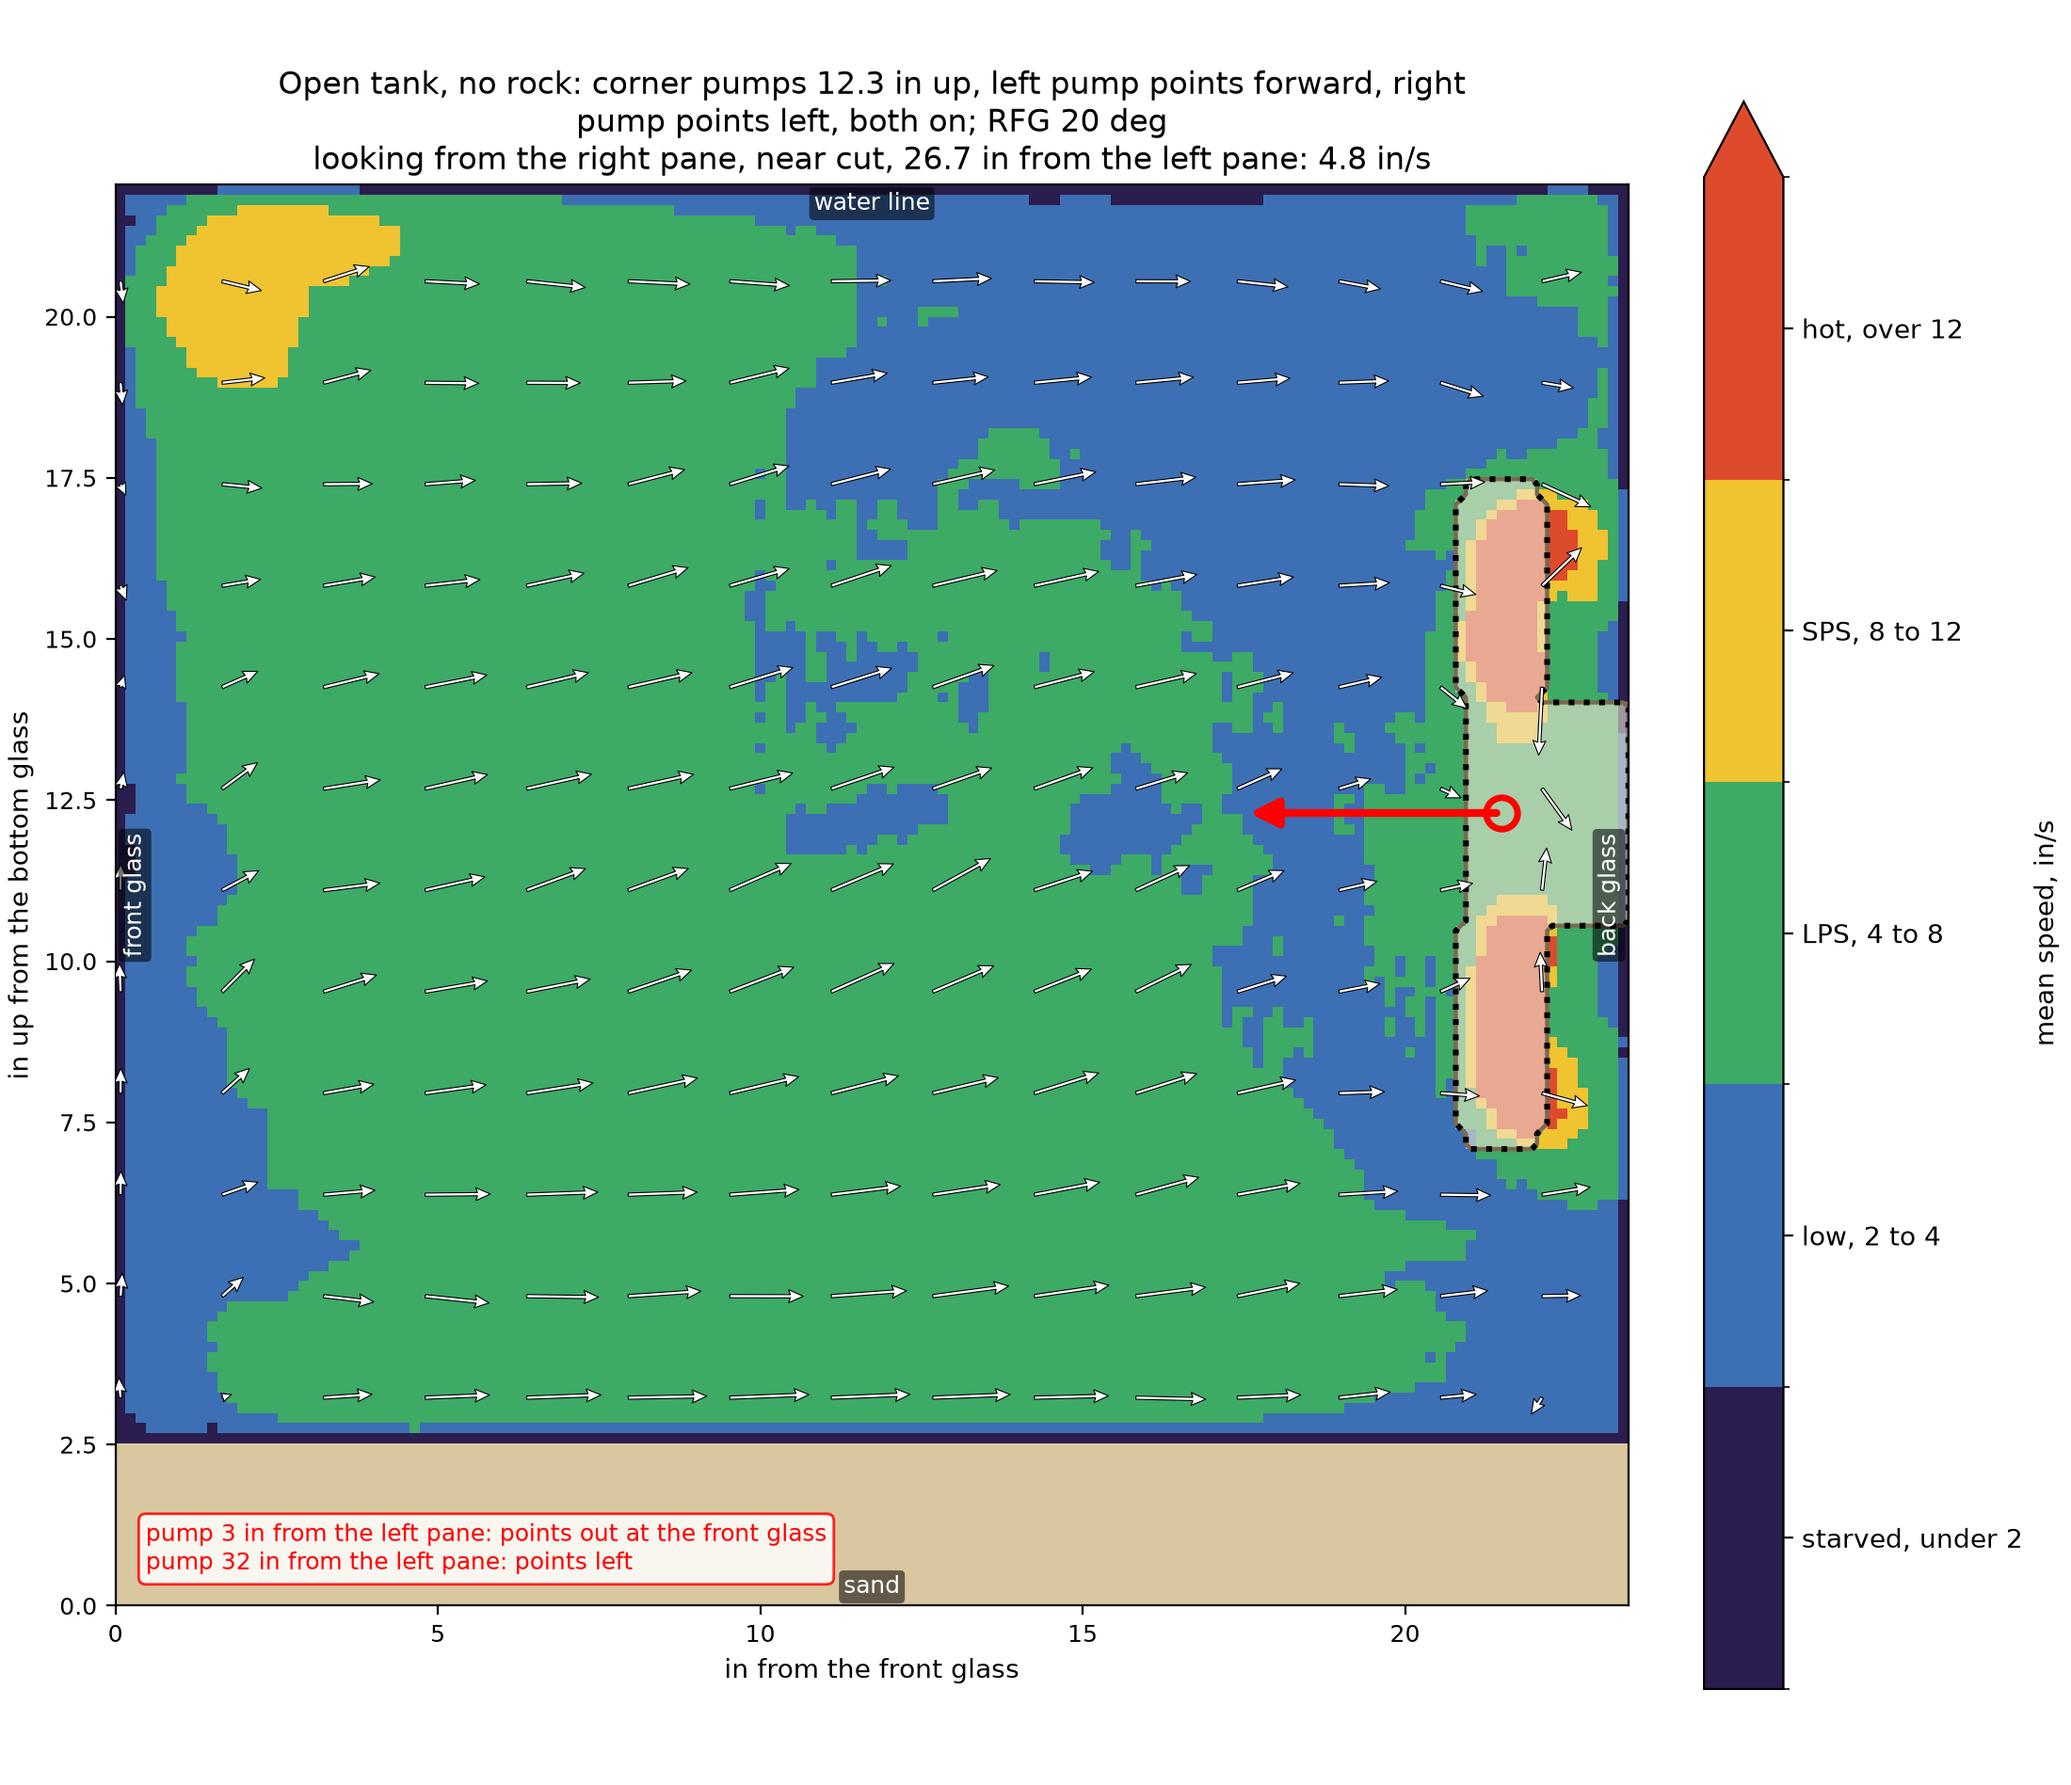
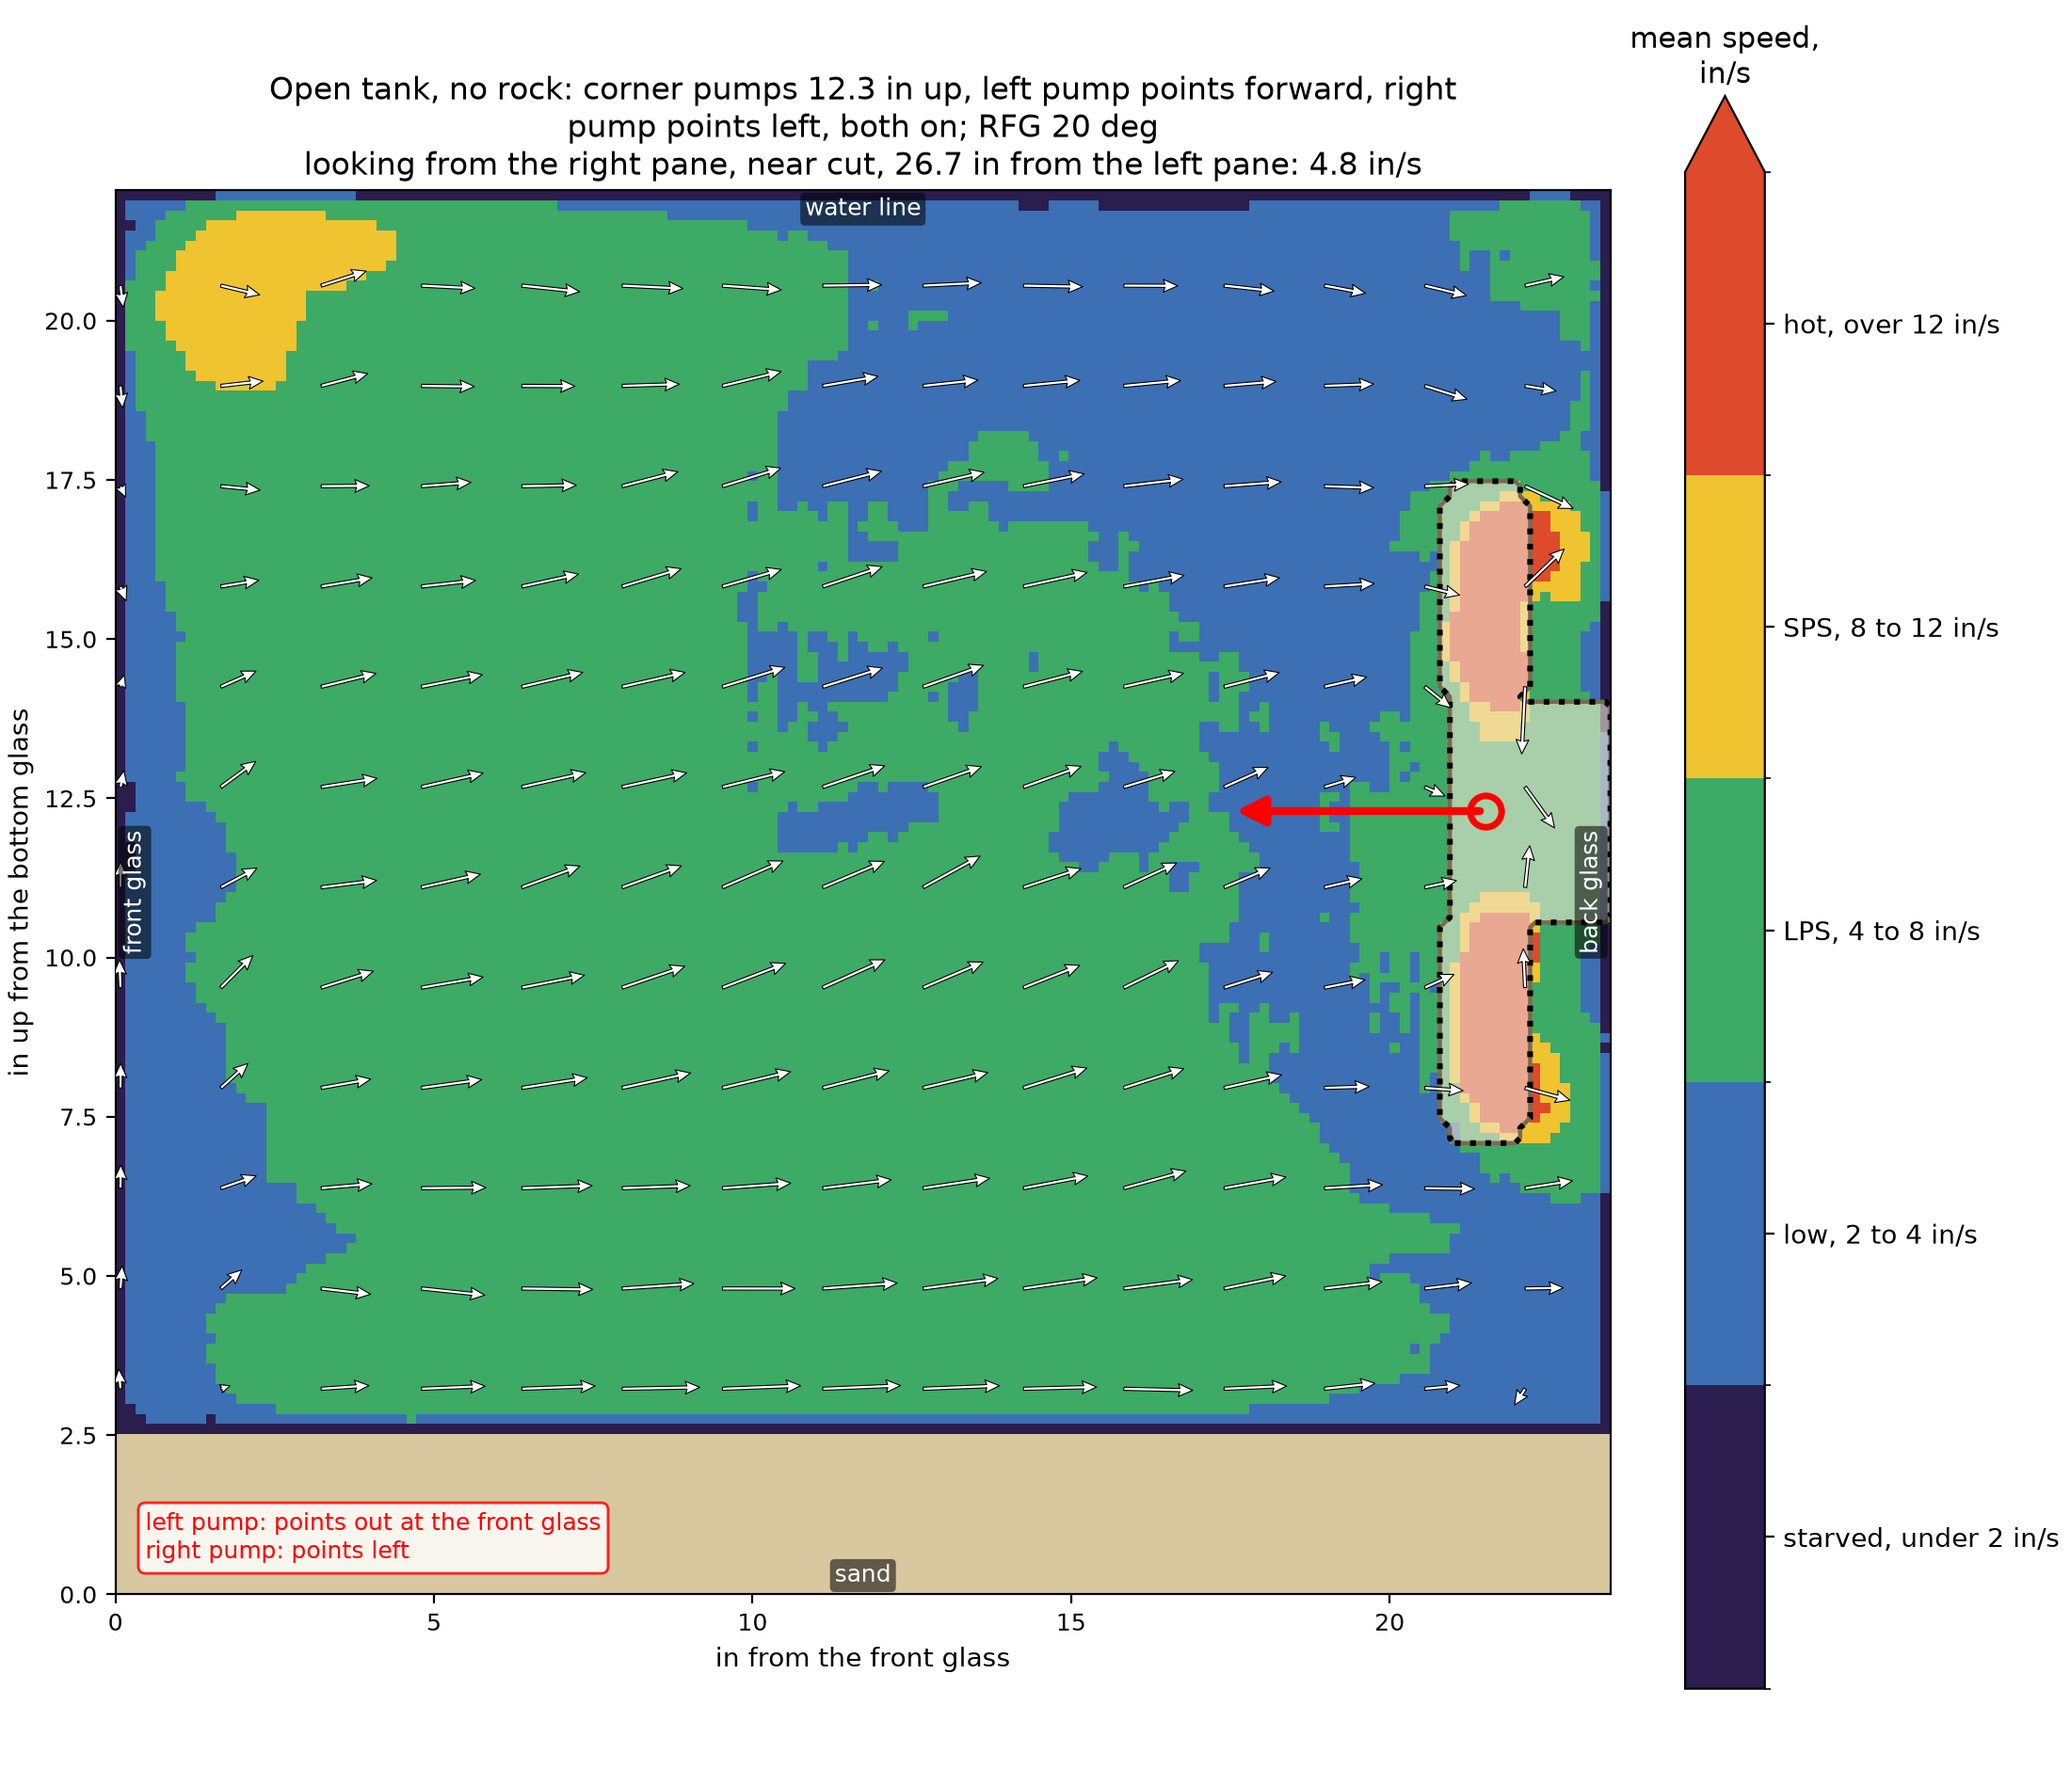
views, videos: legends name the pumps by side, color bar titled in/s, videos stamped with their real speed
What:
- Pump legend: "left pump" and "right pump" instead of "pump 3/32 in from the left pane".
- Color bar: "mean speed, in/s" (or "speed now, in/s" on video frames) across the top; in/s on every band label.
- flow_anim.py: each frame stamped "played at Nx speed", worked out from the snapshot spacing and --fps;
  --encode-only reuses kept frames for a second size.
- The 18 stills redrawn; README: the videos play at 2x, not half speed.

Why:
- "pump 3" and "pump 32" read as pump numbers; the units sat sideways and easy to miss.
- 0.2 s snapshots at 10 fps play at 2x; "half speed" was wrong everywhere. Computing it keeps the label true.

diff --git a/src/flow_anim.py b/src/flow_anim.py
@@ -1,11 +1,13 @@
 """Animations of one run: the nine views (cfd_tank.draw_nine) at every saved snapshot, joined into one MP4 per view.
 
-    python src/flow_anim.py CASE OUT_DIR --title "words" [--fps 10] [--scale 0.5] [--workers 6] [--keep]
+    python src/flow_anim.py CASE OUT_DIR --title "words" [--fps 10] [--scale 0.5] [--workers 6] [--keep] [--encode-only]
 
 The run must have saved snapshots (cfd_tank.py run --dump 0.2,0.4,... --report 0.2; 100 of them for 20 s). Frames are
 drawn into FluidX3D/bin/reef_out/CASE/frames/<view>/, six snapshots at a time; the videos go to OUT_DIR/<view>.mp4,
---scale 0.5 at half width (a few MB each instead of 15-25). Afterwards the frames and every snapshot but the last (the
-warm start) are deleted unless --keep.
+--scale 0.5 at half width (8-13 MB each instead of 14-25). Each frame is stamped with its tank time and the playback
+speed, worked out from the snapshot spacing and --fps (0.2 s snapshots at 10 fps play at 2x). --keep leaves the frames
+and snapshots; --encode-only reuses kept frames (a second size). Otherwise the frames and every snapshot but the last
+(the warm start) are deleted.
 """
 import argparse
 import shutil
@@ -28,9 +30,10 @@ def snapshots(case):
 
 
 def frame(job):
-    case, title, i, t, tag = job
+    case, title, i, t, tag, speed = job
     frames = cfd.OUT / case / "frames"
-    cfd.draw_nine(case, tag, lambda name: frames / name / f"{i:03d}.png", title, 6.0, stamp=f"; at {t:.1f} s")
+    cfd.draw_nine(case, tag, lambda name: frames / name / f"{i:03d}.png", title, 6.0,
+                  stamp=f"; at {t:.1f} s, played at {speed:g}x speed")
     return i
 
 
@@ -39,20 +42,24 @@ def main():
     p.add_argument("case")
     p.add_argument("out")
     p.add_argument("--title", required=True)
-    p.add_argument("--fps", type=int, default=10)   # 0.2 s snapshots at 10 fps: half speed
+    p.add_argument("--fps", type=int, default=10)   # 0.2 s snapshots at 10 fps: 2x speed
     p.add_argument("--scale", type=float, default=1.0)   # frame width as a share of the drawn 2200 px
     p.add_argument("--workers", type=int, default=6)
     p.add_argument("--keep", action="store_true")
+    p.add_argument("--encode-only", action="store_true")
     a = p.parse_args()
     snaps = snapshots(a.case)
     frames = cfd.OUT / a.case / "frames"
-    for v in VIEWS:
-        (frames / v).mkdir(parents=True, exist_ok=True)
-    jobs = [(a.case, a.title, i, t, tag) for i, (t, tag) in enumerate(snaps)]
-    with Pool(a.workers) as pool:
-        for n, _ in enumerate(pool.imap_unordered(frame, jobs), 1):
-            if n % 10 == 0 or n == len(jobs):
-                print(f"frames: {n} of {len(jobs)} snapshots", flush=True)
+    if not a.encode_only:
+        times = [t for t, _ in snaps]
+        speed = round(float(np.median(np.diff(times))) * a.fps, 2)   # tank seconds per second of video
+        for v in VIEWS:
+            (frames / v).mkdir(parents=True, exist_ok=True)
+        jobs = [(a.case, a.title, i, t, tag, speed) for i, (t, tag) in enumerate(snaps)]
+        with Pool(a.workers) as pool:
+            for n, _ in enumerate(pool.imap_unordered(frame, jobs), 1):
+                if n % 10 == 0 or n == len(jobs):
+                    print(f"frames: {n} of {len(jobs)} snapshots", flush=True)
 
     import imageio.v2 as imageio
     from PIL import Image

diff --git a/src/cfd_tank.py b/src/cfd_tank.py
@@ -201,8 +201,9 @@ EDGES = {           # axis labels, then the walls at the bottom, top, left and r
 }
 
 
-CORAL_BANDS = [(2, "starved, under 2", "#2b1d4e"), (4, "low, 2 to 4", "#3d6fb4"), (8, "LPS, 4 to 8", "#3daa66"),
-               (12, "SPS, 8 to 12", "#f0c330"), (16, "hot, over 12", "#de4a2c")]   # in/s at the coral; reef-keeping rules of thumb
+CORAL_BANDS = [(2, "starved, under 2 in/s", "#2b1d4e"), (4, "low, 2 to 4 in/s", "#3d6fb4"),
+               (8, "LPS, 4 to 8 in/s", "#3daa66"), (12, "SPS, 8 to 12 in/s", "#f0c330"),
+               (16, "hot, over 12 in/s", "#de4a2c")]   # in/s at the coral; reef-keeping rules of thumb
 
 
 def band_colors():
@@ -212,9 +213,11 @@ def band_colors():
     return cmap, BoundaryNorm([0] + [b for b, _, _ in CORAL_BANDS], cmap.N)
 
 
-def band_colorbar(fig, m, ax):
+def band_colorbar(fig, m, ax, title="mean speed,\nin/s"):
+    """The coral bands, titled across the top so the units read first."""
     edges = [0] + [b for b, _, _ in CORAL_BANDS]
-    cb = fig.colorbar(m, ax=ax, shrink=0.9, extend="max", label="mean speed, in/s")
+    cb = fig.colorbar(m, ax=ax, shrink=0.9, extend="max")
+    cb.ax.set_title(title, fontsize=11, pad=34)
     cb.set_ticks([(a + b) / 2 for a, b in zip(edges, edges[1:])])
     cb.set_ticklabels([w for _, w, _ in CORAL_BANDS])
     return cb
@@ -319,7 +322,8 @@ def pump_marks(ax, kind, meta):
         d = {"x": 0.0, "y": -math.sin(aim), "z": 0.0}
         d[push[1]] += s * math.cos(aim)
         way = "out at the front glass" if aim_deg >= 45 else {"-x": "left", "+x": "right", "-z": "down", "+z": "up"}[push]
-        words.append(f"pump {x:.0f} in from the left pane: " + (f"points {way}" if running else "off"))
+        side = "left" if x < INSIDE_L_IN / 2 else "right"
+        words.append(f"{side} pump: " + (f"points {way}" if running else "off"))
         h0, v0, dh, dv = {"plan": (x, yc, d["x"], d["y"]), "front": (x, z, d["x"], d["z"])}.get(kind, (yc, z, d["y"], d["z"]))
         if running and math.hypot(dh, dv) > 0.2:
             (h_lo, h_hi), (v_lo, v_hi) = ax.get_xlim(), ax.get_ylim()
@@ -412,9 +416,7 @@ def draw_nine(case, t, path_for, title, vmax, stamp=""):
         m = slice_panel(ax, kind, img, h, v, uh, uv, vmax, dx_in, textwrap.fill(title, 80) + f"\n{words}{stamp}", bands=True,
                         sand_in=sand_in, behind={"end": silhouette, "front": front_outline}.get(kind))
         pump_marks(ax, kind, meta)
-        cb = band_colorbar(fig, m, ax)
-        if t is not None:
-            cb.set_label("speed at this instant, in/s")
+        band_colorbar(fig, m, ax, "mean speed,\nin/s" if t is None else "speed now,\nin/s")
         fig.savefig(path_for(name), dpi=DPI)
         plt.close(fig)
 

diff --git a/README.md b/README.md
@@ -32,7 +32,7 @@ Each `flow_images/*/` folder holds nine views plus `numbers.txt`.
 ## Videos
 
 The averages above hide most of what the water does. `src/flow_anim.py` draws every 0.2 s of a run and joins the
-frames: 20 s of tank time at half speed, one video per view. The "starved" patches turn out to get swept every few
+frames: 20 s of tank time played at 2x speed, one 10 s video per view. The "starved" patches turn out to get swept every few
 seconds; the front-glass jet split wanders. Videos are not in git; these five are hosted by GitHub.
 
 Side cut through the main rock (far):
